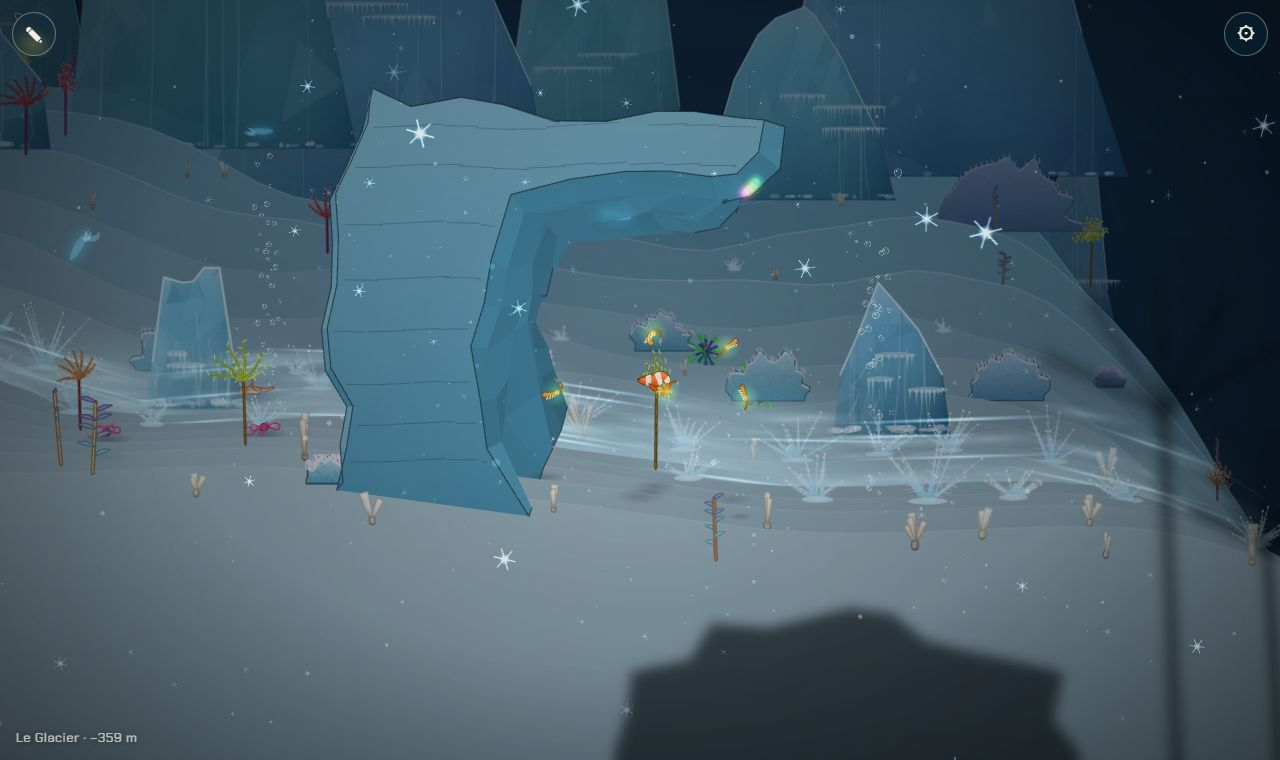
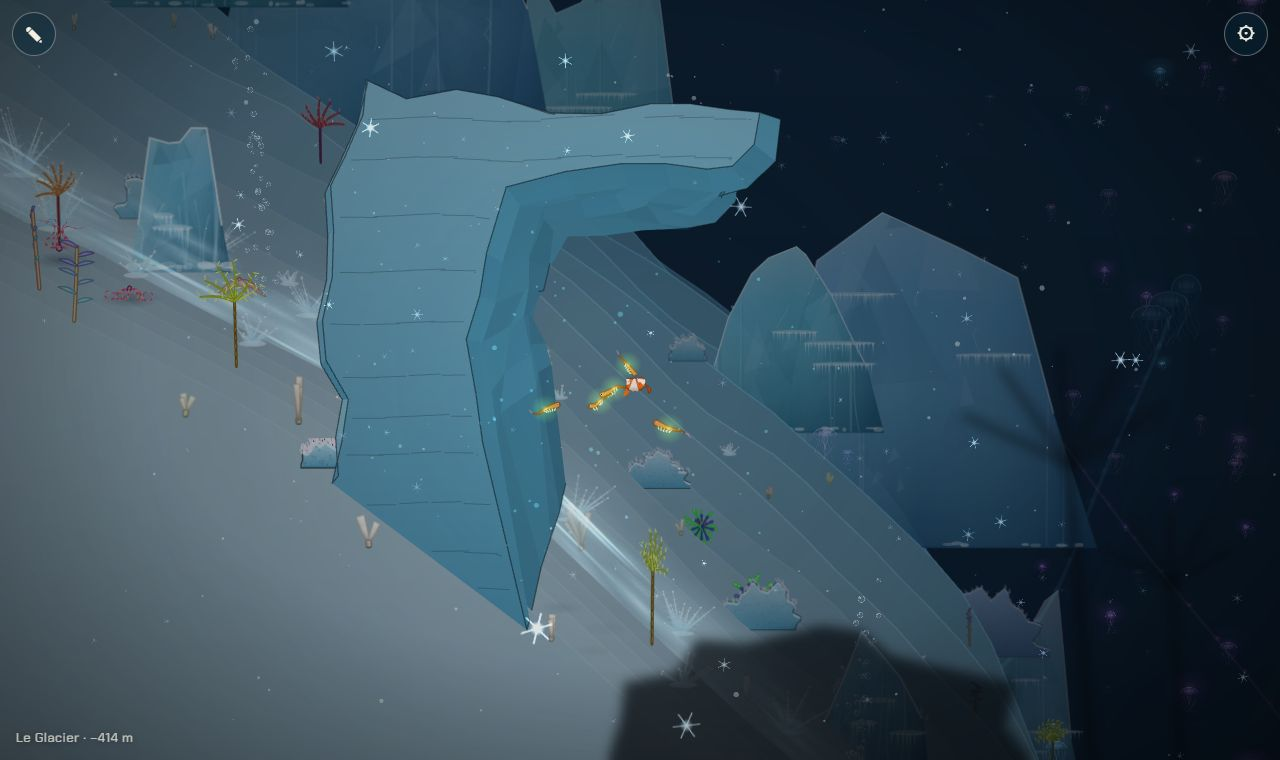
La Lignée: a ledge may overhang a steeper slope, so the Glacier keeps its ice ledge above the descent toward the Jardin

diff --git a/src/monde/relief.ts b/src/monde/relief.ts
@@ -502,13 +502,13 @@ export function initReliefs(biomes: readonly { id: string; x0: number; encrust: 
     const [a, e] = span(i);
     for (const p of PLANS[b.id] || []) {
       if (p.kind === 'faille') continue;
-      // in the swimming plane, one every so often, where it fits: on a gentle slope, clear of the set pieces and the faults
-      const gap = Math.max(700, p.every / (p.lane + p.front + p.back) / (p.lane || 1));
+      // in the swimming plane, one every so often, where it fits: on a gentle slope (a ledge may overhang a steeper one), clear of the set pieces and the faults
+      const gap = Math.max(700, p.every / (p.lane + p.front + p.back) / (p.lane || 1)), steep = p.kind === 'surplomb' ? 320 : 150;
       if (p.lane > 0) {
         for (let x = a + 400 + R() * gap * 0.5; x < e - 400; x += gap * (0.75 + 0.5 * R())) {
           for (let k = 0; k < 6; k++) {
             const xx = x + k * 90;
-            if (xx > e - 400 || Math.abs(floor(xx - 150, 0) - floor(xx + 150, 0)) > 150) continue;
+            if (xx > e - 400 || Math.abs(floor(xx - 150, 0) - floor(xx + 150, 0)) > steep) continue;
             const r = build(p.kind, 'lane', xx, R, floor, b.encrust);
             if (r && fits(r)) { reliefs.push(r); x = xx; break; }
           }

diff --git a/changes/unreleased/reliefs-composes-arches/report.md b/changes/unreleased/reliefs-composes-arches/report.md
@@ -11,7 +11,7 @@ Quatre types de relief, placés chapitre par chapitre, qui passent devant, en tr
   - les **failles** : des tranchées creusées dans le fond lui-même (`carve`, ajouté à `floorAt`), de l'avant jusqu'au loin, qui se referment au fond de la scène. On peut y plonger ;
   - les **collisions** : la coupe d'un relief par le plan z d'une créature (segments, en cache par 8 unités de z), dont on la repousse en gardant sa vitesse le long de la paroi (`pushOut`, `bump`, 1,75 µs par appel) ;
   - la **vie dessus** : `groundAt` fait pousser sur le sommet d'un relief une plante dont le pied tombe dedans, `solidAt` écarte les rochers qui tomberaient dedans ;
-  - la **disposition** (`initReliefs`, table `PLANS` par id de chapitre) : d'abord les failles, puis, dans le plan de nage, un relief à intervalles réguliers là où le fond est doux, puis ceux de devant et de derrière ; aucun ne prend la place d'un décor (une zone en x et en z par décor : large pour les cheminées, les os de la baleine et l'épave, plus petite pour la glace et les suintements, le givre ne compte pas) ni ne tombe dans une faille. Le plan de nage n'est jamais fermé : il reste toujours au moins 90 unités de passage, dessus ou dessous (testé).
+  - la **disposition** (`initReliefs`, table `PLANS` par id de chapitre) : d'abord les failles, puis, dans le plan de nage, un relief à intervalles réguliers là où le fond est doux (une corniche peut surplomber une pente plus raide : celle du Glacier domine la descente vers le Jardin), puis ceux de devant et de derrière ; aucun ne prend la place d'un décor (une zone en x et en z par décor : large pour les cheminées, les os de la baleine et l'épave, plus petite pour la glace et les suintements, le givre ne compte pas) ni ne tombe dans une faille. Le plan de nage n'est jamais fermé : il reste toujours au moins 90 unités de passage, dessus ou dessous (testé).
 - **`src/monde/relief-draw.ts`** (dessin, WebGL et Canvas 2D) : chaque relief est projeté sommet par sommet ; les faces tournées vers l'œil sont peintes de loin en près, éclairées d'en haut (facettes, strates sur les piliers, plus sombres près du fond), avec un contour d'encre sur la silhouette et le brouillard de l'eau. Le relief est coupé en tranches le long de z (le plan de nage est toujours une limite) : chaque tranche est un élément de la liste triée de la scène. Là où le chapitre est couvert de vie (`encrust`), des plaques de polypes couvrent le haut des reliefs. Ce qui vient trop près de l'œil s'efface.
 - **Par chapitre** (nouvelle carte des 10 chapitres) :
 
